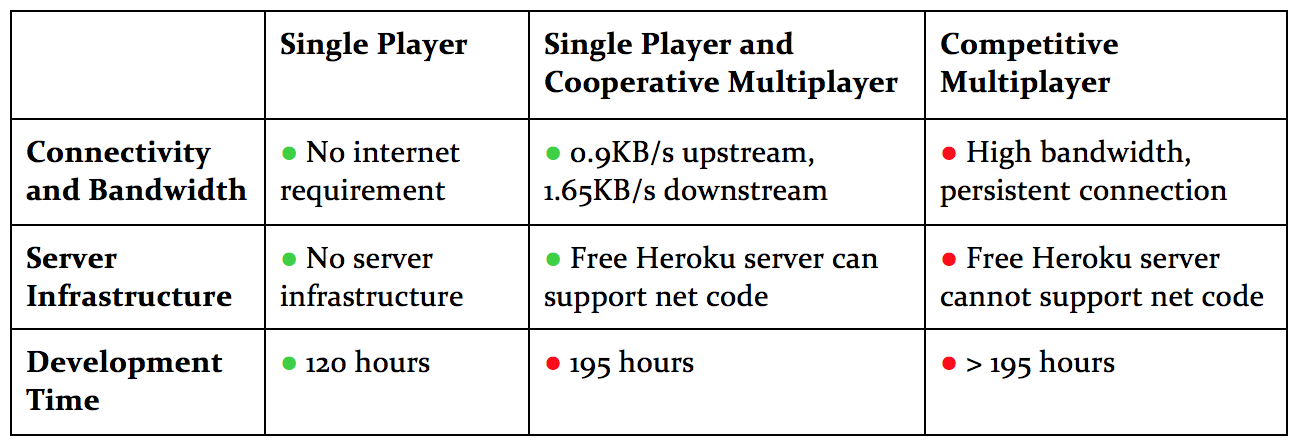
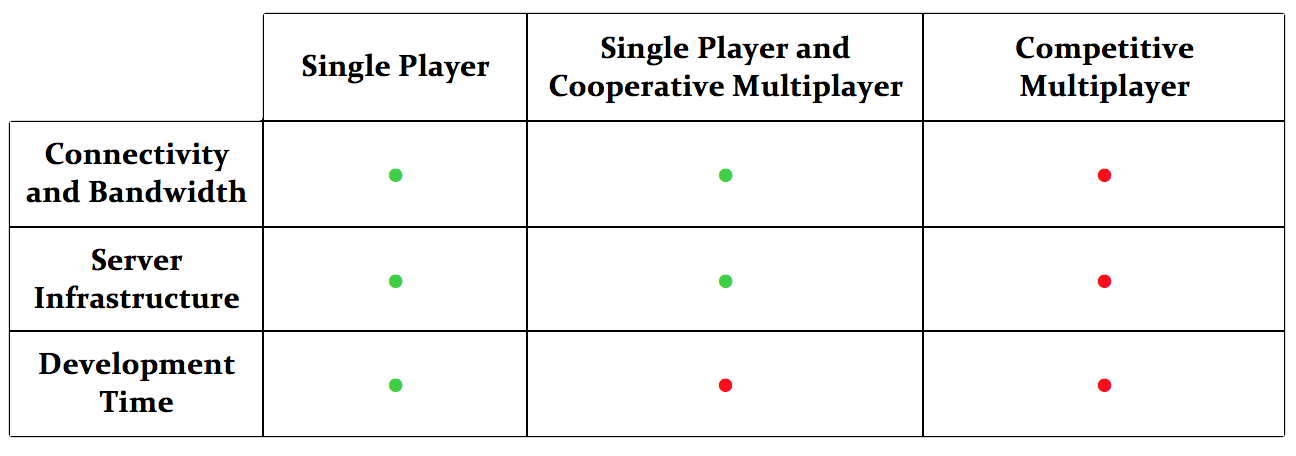
Newest summary image, remove table

diff --git a/index.html b/index.html
@@ -133,39 +133,6 @@ document.write( '<link rel="stylesheet" href="css/print/' + ( window.location.se
 					</ul>
 			</ul>
 		</section>
-		<section>
-			<h2>Feasibility Study</h2>
-			<table class="feasibility">
-				<thead>
-					<tr>
-						<th></th>
-						<th>Single Player</th>
-						<th>Cooperative Multiplayer</th>
-						<th>Competitive Multiplayer</th>
-					</tr>
-				</thead>
-				<tbody>
-					<tr>
-						<td>Connectivity,<br/> Bandwidth</td>
-						<td style="color:#00FF00">•</td>
-						<td style="color:#00FF00">•</td>
-						<td style="color:#FF0000">•</td>
-					</tr>
-					<tr>
-						<td>Server <br/> Infrastructure</td>
-						<td style="color:#00FF00">•</td>
-						<td style="color:#00FF00">•</td>
-						<td style="color:#FF0000">•</td>
-					</tr>
-					<tr>
-						<td>Development <br/> Time</td>
-						<td style="color:#00FF00">•</td>
-						<td style="color:#FF0000">•</td>
-						<td style="color:#FF0000">•</td>
-					</tr>
-				</tbody>
-			</table>
-		</section>
 		<section data-markdown>
 			## Feasiblity Study
 			![feasiblity summary](images/feasibilitysummary.png)
